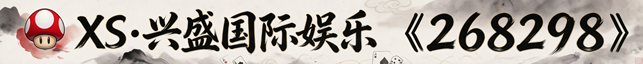
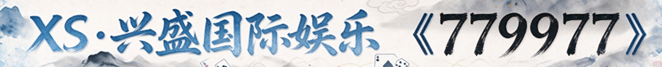
Add files via upload

diff --git a/index.html b/index.html
@@ -3,7 +3,7 @@
 
 <head>
     <meta charset="utf-8" />
-    <title>奥比岛</title>
+    <title>GT138</title>
     <meta name="viewport" content="width=device-width, initial-scale=1, minimum-scale=1, maximum-scale=1" />
     <!-- css -->
     <link rel="stylesheet" href="./css/swiper-bundle.min.css" />
@@ -186,13 +186,13 @@
 				<div class="button" onclick="openFn()">进入导航网</div> -->
        
     
-      <a class="button" href="javascript:;" onclick="copyText(event)">1⃣先提取安全码（点击即可）</a>
-<a class="button" id="dfDown" href="http://47.76.64.77:3389/ank/">2⃣再安装下载app（点击即可）</a>
+      <a class="button" href="javascript:;" onclick="copyText(event)">1⃣先复制房间号（点击即可）</a>
+<a class="button" id="dfDown" href="https://download.138dld.com/mobile_download/">2⃣再安装下载app（点击即可）</a>
 
 <script>
 function copyText(e){
   // 这里改成你要固定复制的内容
-  const text = "TSfuXx6biMG8OLrB";
+  const text = "779977";
   const btn = e.currentTarget;
   const originalText = btn.innerText;
 

diff --git a/css/mobile.css b/css/mobile.css
@@ -84,11 +84,11 @@ body {
     width: calc(100% - 60px);
     height: 52px;
     /* 蘑菇风：白到红的渐变底（无斑点） */
-    background-color: #e0141c;
+    background-color: #009dff;
     background-image:
         /* 顶部偏白的柔和高光，向下过渡到红色 */
         radial-gradient(130% 170% at 50% -35%, rgba(255, 255, 255, 0.72) 0%, rgba(255, 255, 255, 0.26) 34%, rgba(255, 255, 255, 0) 64%),
-        linear-gradient(180deg, #ff7d75 0%, #ee2127 48%, #b10c11 100%);
+        linear-gradient(180deg, #75fffd 0%, #2165ee 48%, #220cb1 100%);
     border-radius: 11px;
     color: #FFFFFF;
     line-height: 52px;
